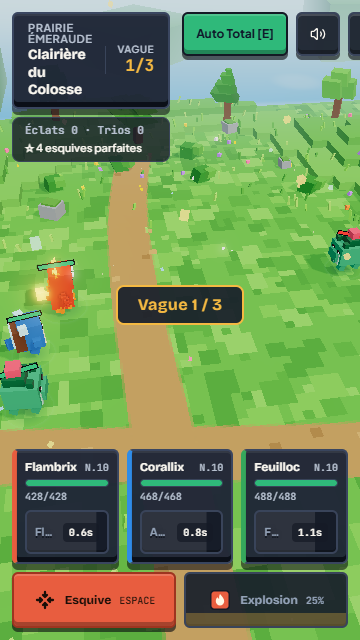
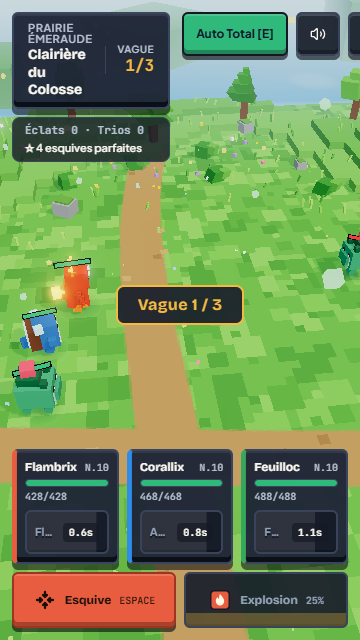
art.5: page ?gallery=art (ancien et nouveau modele cote a cote, qui tournent, bouton Silhouettes), captures avant/apres de chaque creature refaite et des vues de la Prairie, mesures par niveau de qualite ; qualite Bas : decor allege (ni herbe, ni fleurs, relief grossier) et detail choisi des la prem

diff --git a/src/game/models/meadowDecor.ts b/src/game/models/meadowDecor.ts
@@ -116,7 +116,8 @@ export function addMeadowArtDecor(env: THREE.Group, arenaRadius: number, isCamp:
   const color = new THREE.Color();
 
   // --- relief : colonnes de blocs en terrasses entre l'arène plate et le bord de l'île
-  const step = low ? 2 : 1;
+  // qualité Bas : relief grossier, ni herbe ni fleurs ni insectes (aussi léger que l'ancien décor)
+  const step = low ? 3 : 1;
   const cells: { x: number; z: number; h: number }[] = [];
   for (let x = -arenaRadius; x <= arenaRadius; x += step)
     for (let z = -arenaRadius; z <= arenaRadius; z += step) {
@@ -142,7 +143,7 @@ export function addMeadowArtDecor(env: THREE.Group, arenaRadius: number, isCamp:
   const heightAt = (x: number, z: number) => cells.find((c) => Math.abs(c.x - x) <= step / 2 && Math.abs(c.z - z) <= step / 2)?.h ?? 0;
 
   // --- touffes d'herbe et fleurs (instanciées, ondulent au vent)
-  const grassCount = low ? 160 : 480;
+  const grassCount = low ? 0 : 480;
   const grassMat = new THREE.MeshStandardMaterial({ color: 0xffffff, roughness: 0.8 });
   if (!low) addSway(grassMat, time, 0.35);
   const grass = new THREE.InstancedMesh(new THREE.BoxGeometry(0.12, 0.4, 0.12), grassMat, grassCount);
@@ -163,7 +164,7 @@ export function addMeadowArtDecor(env: THREE.Group, arenaRadius: number, isCamp:
   }
   env.add(grass);
 
-  const flowerCount = low ? 40 : 110;
+  const flowerCount = low ? 0 : 110;
   const flowerMat = new THREE.MeshStandardMaterial({ color: 0xffffff, roughness: 0.5, emissive: new THREE.Color('#222222') });
   if (!low) addSway(flowerMat, time, 0.25);
   const flowers = new THREE.InstancedMesh(new THREE.BoxGeometry(0.2, 0.2, 0.2), flowerMat, flowerCount);
@@ -194,7 +195,7 @@ export function addMeadowArtDecor(env: THREE.Group, arenaRadius: number, isCamp:
     [[0.6, 2.1, 0, 1.2, 1.1, 1.2], [-0.6, 2.3, 0.2, 1.3, 1.2, 1.3], [0, 2.9, -0.1, 1.2, 0.9, 1.2]],
     [[0, 2.4, 0, 2.6, 1.6, 2.6]],
   ];
-  const treeCount = low ? 12 : 22;
+  const treeCount = low ? 10 : 22;
   const leafTotal = Array.from({ length: treeCount }, (_, i) => SHAPES[i % SHAPES.length].length).reduce((a, b) => a + b, 0);
   const trunks = new THREE.InstancedMesh(new THREE.BoxGeometry(0.5, 1.6, 0.5), trunkMat, treeCount);
   const leaves = new THREE.InstancedMesh(new THREE.BoxGeometry(1, 1, 1), leafMat, leafTotal);
@@ -228,7 +229,7 @@ export function addMeadowArtDecor(env: THREE.Group, arenaRadius: number, isCamp:
   env.add(trunks, leaves);
 
   // --- buissons et rochers moussus
-  const bushCount = low ? 10 : 26;
+  const bushCount = low ? 6 : 26;
   const bushes = new THREE.InstancedMesh(new THREE.BoxGeometry(0.9, 0.7, 0.9), leafMat, bushCount * 2);
   for (let i = 0; i < bushCount; i++) {
     const a = rnd() * Math.PI * 2;
@@ -248,7 +249,7 @@ export function addMeadowArtDecor(env: THREE.Group, arenaRadius: number, isCamp:
   }
   bushes.castShadow = true;
   env.add(bushes);
-  const rockCount = low ? 8 : 18;
+  const rockCount = low ? 6 : 18;
   const rockMat = new THREE.MeshStandardMaterial({ color: 0xffffff, roughness: 0.85 });
   const rocks = new THREE.InstancedMesh(new THREE.BoxGeometry(1, 0.7, 0.9), rockMat, rockCount * 2);
   for (let i = 0; i < rockCount; i++) {
@@ -310,7 +311,7 @@ export function addMeadowArtDecor(env: THREE.Group, arenaRadius: number, isCamp:
   env.add(rim);
 
   // --- vie : papillons le jour, lucioles la nuit, pollen dans la lumière
-  const bugCount = low ? 8 : 18;
+  const bugCount = low ? 1 : 18;
   const bugMat = new THREE.MeshBasicMaterial({ color: 0xffffff });
   const bugs = new THREE.InstancedMesh(new THREE.BoxGeometry(0.16, 0.04, 0.12), bugMat, bugCount);
   const bugSeeds = Array.from({ length: bugCount }, () => [rnd() * Math.PI * 2, 2 + rnd() * (flat + 3), rnd() * 10]);

diff --git a/src/components/CreatureTurntable.tsx b/src/components/CreatureTurntable.tsx
@@ -2,6 +2,8 @@ import { useEffect, useRef } from 'react';
 import * as THREE from 'three';
 import { RoomEnvironment } from 'three/addons/environments/RoomEnvironment.js';
 import { buildVoxelCreature } from '../game/voxelModels';
+import { buildLegacyCreature } from '../game/models/creatures';
+import { SPECIES } from '../game/catalog';
 import { usePrefersReducedMotion } from './ui';
 import { VoxelCreatureAvatar } from './Icons';
 
@@ -9,7 +11,21 @@ import { VoxelCreatureAvatar } from './Icons';
  * Portrait qui tourne (G1.3) : une petite scène 3D, réservée aux grands affichages (arrivée d'une créature)
  * pour ne pas multiplier les rendus. Sans WebGL ou avec « mouvement réduit » : le portrait fixe.
  */
-export function CreatureTurntable({ speciesId, size = 160, variant = false }: { speciesId: string; size?: number; variant?: boolean }) {
+export function CreatureTurntable({
+  speciesId,
+  size = 160,
+  variant,
+  legacy,
+  silhouette,
+}: {
+  speciesId: string;
+  size?: number;
+  variant?: boolean;
+  /** Sprint Art : l'ancien modèle « gros pavés » (comparaison). */
+  legacy?: boolean;
+  /** Sprint Art : ombre noire unie (comparaison des silhouettes). */
+  silhouette?: boolean;
+}) {
   const mount = useRef<HTMLDivElement | null>(null);
   const reduced = usePrefersReducedMotion();
   const failed = useRef(false);
@@ -41,7 +57,15 @@ export function CreatureTurntable({ speciesId, size = 160, variant = false }: { 
     const rim = new THREE.DirectionalLight('#9CC8FF', 0.7);
     rim.position.set(-5, 4, -6);
     scene.add(key, rim, new THREE.HemisphereLight('#DDEBFF', '#5B4A3A', 0.55));
-    const rig = buildVoxelCreature(speciesId, 1, variant);
+    const rig = legacy ? buildLegacyCreature(SPECIES[speciesId], 1, variant) : buildVoxelCreature(speciesId, 1, variant);
+    if (silhouette) {
+      // comparaison des silhouettes : une seule matière noire
+      const black = new THREE.MeshBasicMaterial({ color: '#000000' });
+      rig.bodyPivot.traverse((o) => {
+        const m = o as THREE.Mesh;
+        if (m.isMesh) m.material = black;
+      });
+    }
     scene.add(rig.root);
     rig.root.updateMatrixWorld(true);
     const bounds = new THREE.Box3().setFromObject(rig.bodyPivot);
@@ -73,7 +97,7 @@ export function CreatureTurntable({ speciesId, size = 160, variant = false }: { 
       renderer.forceContextLoss();
       renderer.domElement.remove();
     };
-  }, [speciesId, size, reduced, variant]);
+  }, [speciesId, size, reduced, variant, legacy, silhouette]);
 
   if (reduced || failed.current) return <VoxelCreatureAvatar speciesId={speciesId} size={size} />;
   return <div ref={mount} style={{ width: size, height: size }} aria-hidden="true" />;

diff --git a/src/components/ArtGallery.tsx b/src/components/ArtGallery.tsx
@@ -1,0 +1,52 @@
+import { useState } from 'react';
+import { SPECIES } from '../game/catalog';
+import { SCULPT_DEFS } from '../game/models/sculptDefs';
+import { CreatureTurntable } from './CreatureTurntable';
+
+/**
+ * `?gallery=art` (outil, sprint Art section 5) : pour chaque créature refaite, l'ancien et le nouveau modèle
+ * côte à côte, qui tournent ; un bouton « Silhouettes ». Une créature à la fois (deux rendus seulement).
+ * `&species=<id>&silhouette=1` pour les captures. Textes en place : outil de développement.
+ */
+export function ArtGallery() {
+  const params = new URLSearchParams(window.location.search);
+  const ids = Object.keys(SCULPT_DEFS);
+  const [current, setCurrent] = useState(params.get('species') && SCULPT_DEFS[params.get('species')!] ? params.get('species')! : ids[0]);
+  const [silhouette, setSilhouette] = useState(params.get('silhouette') === '1');
+  return (
+    <div className="min-h-screen bg-[#0F1420] px-4 py-6 text-[#FAF7F0] sm:px-8">
+      <div className="mx-auto max-w-5xl">
+        <p className="text-xs font-bold uppercase tracking-wider text-[#F4B942]">Outil de développement</p>
+        <h1 className="font-display text-3xl font-bold">Avant / après : créatures refaites</h1>
+        <div className="mt-4 flex flex-wrap gap-2">
+          {ids.map((id) => (
+            <button
+              key={id}
+              type="button"
+              onClick={() => setCurrent(id)}
+              className={`voxel-btn min-h-[44px] rounded-lg border-2 px-3 text-sm font-semibold ${current === id ? 'block-btn-gold' : 'block-btn-secondary'}`}
+            >
+              {SPECIES[id].name}
+            </button>
+          ))}
+          <button
+            type="button"
+            onClick={() => setSilhouette((v) => !v)}
+            aria-pressed={silhouette}
+            className={`voxel-btn ml-auto min-h-[44px] rounded-lg border-2 px-3 text-sm font-semibold ${silhouette ? 'block-btn-primary' : 'block-btn-secondary'}`}
+          >
+            Silhouettes
+          </button>
+        </div>
+        <div className="mt-6 grid grid-cols-1 gap-4 sm:grid-cols-2">
+          {(['avant', 'après'] as const).map((label) => (
+            <div key={`${current}-${label}-${silhouette}`} className="voxel-panel flex flex-col items-center p-4">
+              <p className="mb-2 font-display text-lg font-bold">{label === 'avant' ? 'Avant (gros pavés)' : 'Après (volumes → blocs)'}</p>
+              <CreatureTurntable speciesId={current} size={300} legacy={label === 'avant'} silhouette={silhouette} />
+            </div>
+          ))}
+        </div>
+      </div>
+    </div>
+  );
+}

diff --git a/src/main.tsx b/src/main.tsx
@@ -2,8 +2,9 @@ import {lazy, Suspense} from 'react';
 import {createRoot} from 'react-dom/client';
 import App from './App.tsx';
 import './index.css';
-import {setSculptModels} from './game/models/creatures';
-import {setArtDecor} from './game/models/meadowDecor';
+import {setSculptDetail, setSculptModels} from './game/models/creatures';
+import {setArtDecor, setDecorDetail} from './game/models/meadowDecor';
+import {loadSettings} from './game/settings';
 
 // `?gallery=1` : galerie de revue des créatures et des biomes (outil de développement, le jeu n'est pas lancé).
 // Chargée à la demande : son code n'est pas téléchargé par les joueurs.
@@ -13,6 +14,9 @@ const isGallery = galleryParam === '1';
 const isUiGallery = galleryParam === 'ui';
 // `?gallery=reveal` : révélations du Cube Scellé, une par rareté (outil de développement)
 const isRevealGallery = galleryParam === 'reveal';
+// `?gallery=art` : créatures refaites, avant / après (sprint Art)
+const isArtGallery = galleryParam === 'art';
+const ArtGallery = lazy(() => import('./components/ArtGallery.tsx').then((module) => ({default: module.ArtGallery})));
 const RevealGallery = lazy(() => import('./components/RevealGallery.tsx').then((module) => ({default: module.RevealGallery})));
 const UiGallery = lazy(() => import('./components/ui/UiGallery.tsx').then((module) => ({default: module.UiGallery})));
 const GalleryPage = lazy(() =>
@@ -34,9 +38,21 @@ if (new URLSearchParams(window.location.search).get('bench') === '1') {
 // Sprint Art : modèles sculptés dans le navigateur (les outils headless gardent les anciens, golden inchangé)
 setSculptModels(true);
 setArtDecor(true);
+// qualité Bas choisie (options ou ?quality=low) : versions simplifiées dès la première scène
+{
+  const q = new URLSearchParams(window.location.search).get('quality') ?? loadSettings().quality;
+  if (q === 'low') {
+    setDecorDetail('low');
+    setSculptDetail('low');
+  }
+}
 
 createRoot(document.getElementById('root')!).render(
-  isRevealGallery ? (
+  isArtGallery ? (
+    <Suspense fallback={null}>
+      <ArtGallery />
+    </Suspense>
+  ) : isRevealGallery ? (
     <Suspense fallback={null}>
       <RevealGallery />
     </Suspense>

diff --git a/src/game/engine/postfx.ts b/src/game/engine/postfx.ts
@@ -124,17 +124,20 @@ export function setupPostFx(self: VoxelEngine, width: number, height: number): v
     lastFrameAt: 0,
     fpsWindow: [],
   };
-  applyQualityLevel(self, 'high');
+  applyQualityLevel(self, 'high', false);
 }
 
 /** Active les passes du niveau choisi. */
-export function applyQualityLevel(self: VoxelEngine, level: QualityLevel): void {
+export function applyQualityLevel(self: VoxelEngine, level: QualityLevel, detail = true): void {
   const fx = self.postfx;
   if (!fx) return;
   fx.level = level;
   // sprint Art : en qualité Bas, les créatures sculptées sont construites en version simplifiée (combat suivant)
-  setSculptDetail(level === 'low' ? 'low' : 'high');
-  setDecorDetail(level === 'low' ? 'low' : 'high');
+  // (pas au démarrage : main.tsx a déjà choisi le détail selon les options, avant la première scène)
+  if (detail) {
+    setSculptDetail(level === 'low' ? 'low' : 'high');
+    setDecorDetail(level === 'low' ? 'low' : 'high');
+  }
   fx.gtao.enabled = level === 'high';
   fx.outline.enabled = level !== 'low';
   fx.bloom.enabled = level !== 'low';

diff --git a/tools/texts.ts b/tools/texts.ts
@@ -18,6 +18,7 @@ import { parse } from '@babel/parser';
 /** Fichiers volontairement laissés tels quels (voir docs/archives/GIGA_FONDATIONS.md). */
 const EXCEPTIONS: Record<string, string> = {
   'src/components/GalleryPage.tsx': 'outil de développement (?gallery=1), jamais vu par le joueur',
+  'src/components/ArtGallery.tsx': 'outil de développement (?gallery=art), jamais montré aux joueurs',
   'src/components/RevealGallery.tsx': 'outil de développement (?gallery=reveal), jamais montré aux joueurs',
   'src/components/BenchOverlay.tsx': 'outil de développement (?bench=1), jamais montré aux joueurs',
   'src/components/DebugOverlay.tsx': 'outil de développement (?debug=1), jamais vu par le joueur',
